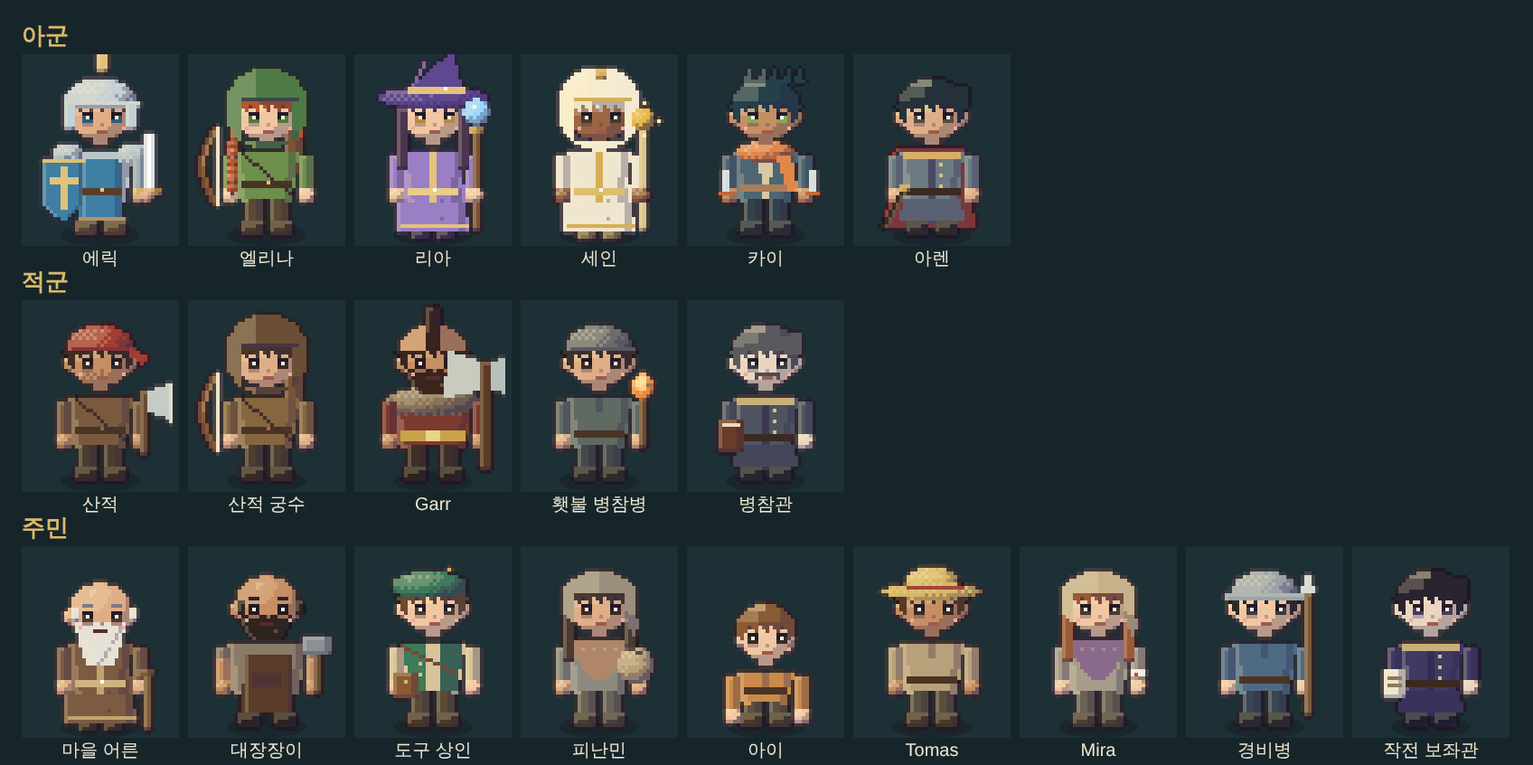
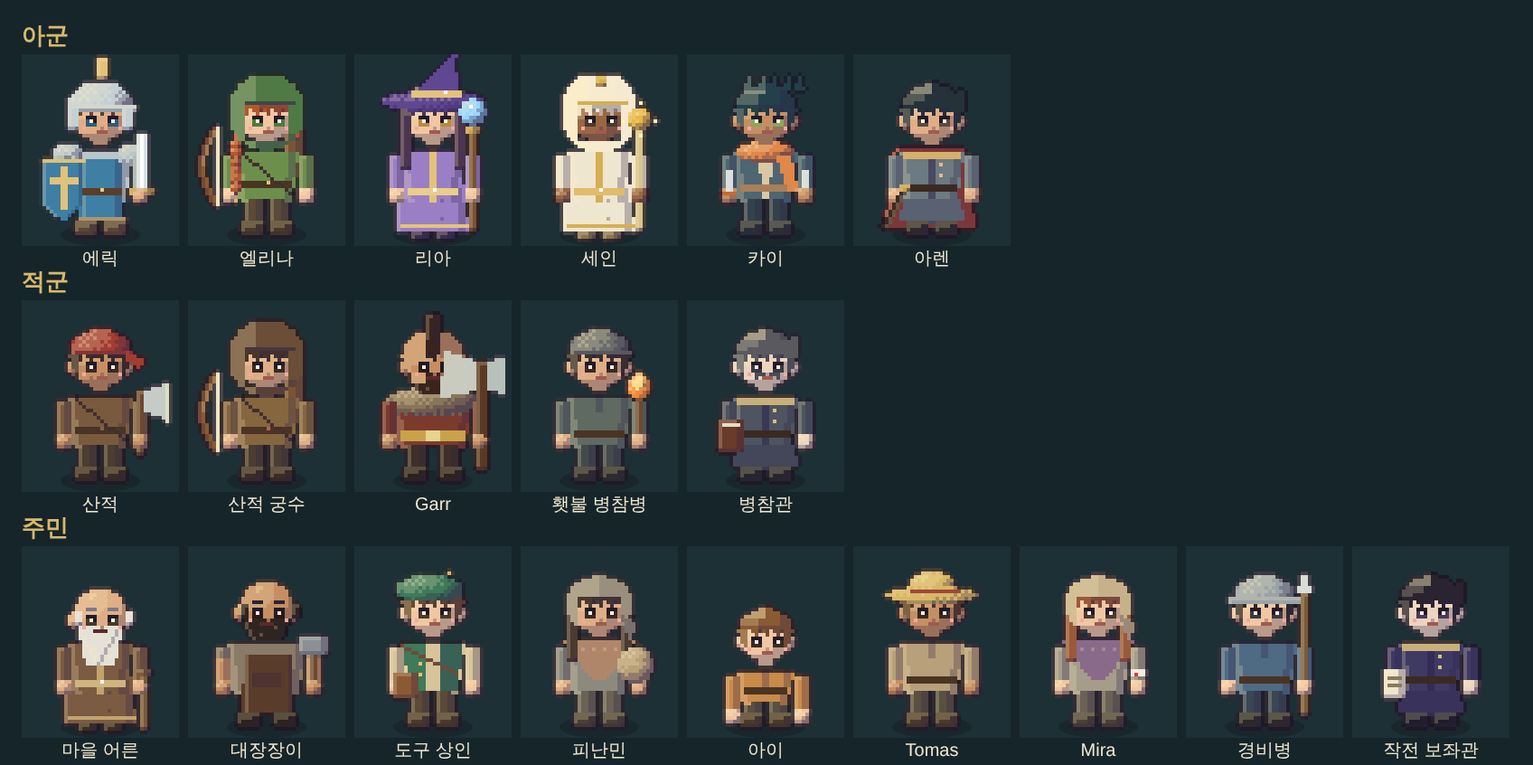
v0.4 B4 sample: smaller heads, four facings and walk cycle
Figures now turn toward their travel direction (front, profile, back,
mirrored profile) with a four-step walk cycle; heads reduced per feedback.
Still a sample only; the shipped build is unchanged.

Claude-Session: https://claude.ai/code/session_01PxKdqHNH8WuM4yqBK5toYD

diff --git a/src/render/hd-art.js b/src/render/hd-art.js
@@ -156,103 +156,176 @@ export const CAST={
  guard:{name:'경비병',skin:'fair',hair:'#2f2a26',style:'short',helm:'kettle',helmColor:'#9aa4a8',body:'tunic',coat:'#4f6b84',trim:'#c9b07a',legs:'#3a4652',boots:'#2c2a26',weapon:'spear',eye:'#3a3a40'},
  aide:{name:'작전 보좌관',skin:'pale',hair:'#2a2430',style:'swept',body:'coat',coat:'#3f3a63',trim:'#c9b07a',legs:'#2a2840',boots:'#1f1d2a',weapon:'papers',eye:'#4a3a5a'}
 };
-export function figureSprite(id,{frame=0}={}){return cached(`fig${id}:${frame}`,()=>drawFigure(CAST[id]||CAST.bandit,frame));}
-function drawFigure(S,frame){
- const p=new Pix(40,52),sk=ramp(SKIN[S.skin]||S.skin),hr=ramp(S.hair),coat=ramp(S.coat),trim=ramp(S.trim),legs=ramp(S.legs),boots=ramp(S.boots),big=S.big?1:0,small=S.small?1:0,lift=frame===1?1:0;
- const top=small?8:0; // children stand shorter
- const cx=20,headY=16+top+(S.stoop?2:0)+lift,bodyTop=26+top+lift,hip=39+(small?3:0);
- // ---- behind the body ----
- if(S.cape){const cr=ramp(S.cape);p.poly([[cx-9,bodyTop],[cx+9,bodyTop],[cx+12,48],[cx-12,48]],cr[1]);for(let y=bodyTop;y<48;y++)p.set(cx-10-(y-bodyTop)/8,y,cr[2]);}
- if(S.back==='quiver'){const q=ramp('#7a5434');p.box(cx+5,bodyTop-7,5,14,q);for(let i=0;i<3;i++){p.set(cx+6+i*1,bodyTop-9,col('#e8e0c8'));p.set(cx+6+i,bodyTop-8,col('#c9443a'));}}
- if(S.weapon==='bow'){const b=ramp('#8a5a32');for(let i=0;i<22;i++){const y=bodyTop-6+i,x=cx-14+Math.round(Math.sin(i/21*Math.PI)*-4);p.set(x,y,b[i<11?3:2]);p.set(x-1,y,b[1]);}p.line(cx-14,bodyTop-6,cx-14,bodyTop+15,col('#efe6c8'));}
- // ---- legs and boots ----
- const legTop=hip-1,legL=cx-6+big*-1,legR=cx+1+big;
- if(['robe'].includes(S.body)){p.poly([[cx-8-big,bodyTop+6],[cx+8+big,bodyTop+6],[cx+10+big,49],[cx-10-big,49]],coat[2]);for(let y=bodyTop+6;y<49;y++){const half=8+big+(y-bodyTop-6)*2/(49-bodyTop-6);p.set(cx-half,y,coat[3]);p.set(cx+half-1,y,coat[1]);p.set(cx+half-2,y,coat[1]);if(y%5===0)p.set(cx+2,y,coat[1]);}p.rect(cx-9-big,47,19+2*big,1,trim[2]);p.box(cx-6,49,5,2,boots);p.box(cx+1,49,5,2,boots);}
- else{p.box(legL,legTop,5,9-lift,legs);p.box(legR,legTop,5,9-lift,legs);p.box(legL-1,47-lift,6,3+lift,boots);p.box(legR,47-lift,6,3+lift,boots);p.rect(legL-1,46-lift,6,1,boots[3]);p.rect(legR,46-lift,6,1,boots[3]);}
- // ---- torso ----
- const tw=8+big*2-small,tTop=bodyTop,tBot=hip+1;
- const shirt=S.body==='plate'?ramp('#b9c6ca'):coat;
- p.poly([[cx-tw-1,tTop+1],[cx+tw+1,tTop+1],[cx+tw-1,tBot],[cx-tw+1,tBot]],shirt[2]);
- for(let y=tTop+1;y<=tBot;y++){const k=(y-tTop)/(tBot-tTop),half=tw+1-k*2;p.set(cx-half,y,shirt[3]);p.set(cx-half+1,y,shirt[3]);p.set(cx+half-1,y,shirt[1]);p.set(cx+half-2,y,shirt[1]);}
- if(S.body==='plate'){const tb=ramp(S.tabard);p.poly([[cx-5,tTop+3],[cx+5,tTop+3],[cx+6,tBot+5],[cx-6,tBot+5]],tb[2]);for(let y=tTop+3;y<tBot+5;y++){p.set(cx-5,y,tb[3]);p.set(cx+4,y,tb[1]);p.set(cx+5,y,tb[1]);}p.rect(cx-6,tBot-3,12,2,ramp('#5a3e2a')[2]);p.set(cx,tBot-3,trim[3]);p.rect(cx-6,tBot+5,13,1,trim[1]);
-  // pauldrons
-  p.ball(cx-tw-1,tTop+2,4,3.5,ramp('#b9c6ca'));p.ball(cx+tw+1,tTop+2,4,3.5,ramp('#b9c6ca'));}
- if(S.body==='leather'){p.rect(cx-tw+1,tTop+9,2*tw-2,2,ramp('#4a3424')[2]);p.set(cx,tTop+9,trim[3]);p.line(cx-tw+1,tTop+1,cx+tw-2,tTop+12,ramp('#4a3424')[1]);}
- if(S.body==='robe'){p.rect(cx-1,tTop+1,2,tBot-tTop,trim[2]);p.rect(cx-tw+1,tBot-3,2*tw-2,2,trim[3]);p.set(cx,tBot-3,col('#ffffff'));}
- if(S.body==='jacket'){p.poly([[cx-2,tTop+1],[cx+2,tTop+1],[cx+1,tBot],[cx-1,tBot]],ramp('#d9c8a4')[2]);p.rect(cx-tw+1,tBot-4,2*tw-2,2,trim[1]);}
- if(S.body==='coat'){p.rect(cx-1,tTop+2,2,tBot-tTop+5,coat[0]);for(let i=0;i<3;i++)p.set(cx+2,tTop+4+i*3,trim[3]);p.rect(cx-tw,tBot-3,2*tw,2,ramp('#3a2a22')[2]);p.poly([[cx-tw,tBot],[cx+tw,tBot],[cx+tw+1,tBot+6],[cx-tw-1,tBot+6]],coat[1]);p.rect(cx-tw,tTop+1,2*tw,2,trim[2]);}
- if(S.body==='fur'){p.ball(cx,tTop+2,tw+3,4,ramp(S.fur));for(let i=0;i<8;i++)p.set(cx-tw+i*2.5,tTop+5,ramp(S.fur)[1]);p.rect(cx-tw+1,tBot-4,2*tw-2,3,trim[2]);p.rect(cx-2,tBot-4,4,3,col('#e8d48a'));}
- if(S.body==='apron'){const ap=ramp(S.apron);p.poly([[cx-6,tTop+4],[cx+6,tTop+4],[cx+7,tBot+6],[cx-7,tBot+6]],ap[2]);for(let y=tTop+4;y<tBot+6;y++){p.set(cx-6,y,ap[3]);p.set(cx+6,y,ap[1]);}p.rect(cx-4,tTop+9,8,4,ap[1]);}
- if(S.body==='vest'){const v=ramp(S.vest);p.poly([[cx-tw,tTop+1],[cx-2,tTop+1],[cx-2,tBot],[cx-tw+1,tBot]],v[2]);p.poly([[cx+2,tTop+1],[cx+tw,tTop+1],[cx+tw-1,tBot],[cx+2,tBot]],v[1]);p.set(cx-4,tTop+6,trim[3]);p.set(cx-4,tTop+9,trim[3]);}
- if(S.body==='shawl'){const sh=ramp(S.shawl);p.poly([[cx-tw-2,tTop],[cx+tw+2,tTop],[cx+2,tTop+11],[cx-2,tTop+11]],sh[2]);for(let x=-tw;x<tw;x+=3)p.set(cx+x,tTop+2,sh[3]);}
- if(S.body==='tunic'){p.rect(cx-tw+1,tBot-4,2*tw-2,2,ramp('#4a3424')[2]);p.rect(cx-1,tTop+1,2,4,coat[1]);}
- if(S.scarf){const sc=ramp(S.scarf);p.ball(cx,tTop+1,tw,3,sc);p.poly([[cx+3,tTop+2],[cx+7,tTop+2],[cx+9,tTop+12],[cx+6,tTop+12]],sc[2]);p.set(cx+8,tTop+11,sc[3]);}
- // ---- arms ----
- const armY=tTop+2,sleeve=S.body==='plate'?ramp('#9fb0b6'):S.body==='apron'||S.body==='vest'?ramp(S.coat):coat;
- const armL=cx-tw-4,armR=cx+tw+1;
- p.box(armL,armY,4,10,sleeve);p.box(armR,armY,4,10,sleeve);
- if(S.body==='apron'){p.box(armL,armY+3,4,7,sk);p.box(armR,armY+3,4,7,sk);}
- p.ball(armL+2,armY+11,2.4,2.2,sk);p.ball(armR+2,armY+11,2.4,2.2,sk);
- if(S.bandage){p.rect(armR,armY+6,4,2,col('#f2ece0'));p.set(armR+1,armY+7,col('#c9443a'));}
- // ---- head (large chibi head, eyes always visible) ----
- const hx=cx,hy=headY,hw=small?7:8.5,eyeTop=hy;
- p.ball(hx-hw+.3,hy+1.5,1.7,2.4,sk);p.ball(hx+hw-.3,hy+1.5,1.7,2.4,sk); // ears
- p.ball(hx,hy,hw,7.8,sk,{flat:.5,bias:.08,clean:true,hi:false});
- p.rect(hx-2,hy+7,4,2,sk[1]); // neck
- const ey=eyeTop,eL=hx-5,eR=hx+3;
- // ---- facial hair under the eyes ----
- if(S.beard==='full'||S.beard==='long'){const br=ramp(S.hair),bot=hy+(S.beard==='long'?15:10);p.poly([[hx-hw+1,hy+3],[hx+hw-1,hy+3],[hx+4,bot],[hx-4,bot]],br[2]);for(let y=hy+4;y<bot;y++){p.set(hx-hw+1+(y-hy-3)*.6,y,br[3]);p.set(hx+hw-2-(y-hy-3)*.6,y,br[1]);}for(let y=hy+5;y<bot-1;y+=2)p.set(hx+((y>>1)%2?2:-2),y,br[3]);p.rect(hx-2,ey+5,4,1,col('#5a2a2a'));}
- if(S.beard==='stubble')for(let y=ey+4;y<hy+8;y++)for(let x=hx-5;x<=hx+5;x++)if((x+y)%2===0&&p.get(x,y))p.set(x,y,sk[1]);
- if(S.beard==='mustache'){p.rect(hx-3,ey+4,7,1,hr[1]);p.set(hx-3,ey+5,hr[1]);p.set(hx+3,ey+5,hr[1]);}
- // eyes: dark lash line, coloured iris, catch-light
- for(const ex of [eL,eR]){p.rect(ex,ey,3,1,col('#231a26'));p.rect(ex,ey+1,3,2,col(S.eye));p.set(ex+(ex===eL?2:0),ey+1,col('#231a26'));p.set(ex+1,ey+1,col('#fbf6ec'));p.rect(ex,ey+3,3,1,sk[1]);}
- p.rect(eL,ey-2,3,1,hr[0]);p.rect(eR,ey-2,3,1,hr[0]);
- p.set(hx,ey+3,sk[1]);if(S.beard!=='full'&&S.beard!=='long')p.rect(hx-1,ey+5,3,1,col('#a05a50'));
- p.set(eL-1,ey+4,col('#f2a9a0'));p.set(eR+3,ey+4,col('#f2a9a0'));
- // ---- hair: cap above the brow, side locks beside the cheeks ----
- const brow=hy-3;
+// facing: down (toward the viewer), up (back view), right (profile), left (mirrored profile).
+// frame: 0 idle, 1–4 walk cycle (contact, pass, contact, pass).
+export function figureSprite(id,{frame=0,facing='down'}={}){return cached(`fig${id}:${frame}:${facing}`,()=>{const S=CAST[id]||CAST.bandit;if(facing==='left'){const r=drawFigure(S,frame,'right'),m=new Pix(r.w,r.h);for(let y=0;y<r.h;y++)for(let x=0;x<r.w;x++)m.d[y*r.w+(r.w-1-x)]=r.d[y*r.w+x];return m;}return drawFigure(S,frame,facing);});}
+const WALK=[[0,0,0,0],[1,-1,1,-1],[0,0,0,0],[-1,1,-1,1],[0,0,0,0]]; // [leftLegLift,rightLegLift,leftArmSwing,rightArmSwing]
+function drawFigure(S,frame,facing){
+ const p=new Pix(40,52),view=facing==='up'?'back':facing==='down'?'front':'side';
+ const sk=ramp(SKIN[S.skin]||S.skin),hr=ramp(S.hair),coat=ramp(S.coat),trim=ramp(S.trim),legs=ramp(S.legs),boots=ramp(S.boots),big=S.big?1:0,small=S.small?1:0;
+ const [lA,lB,aA,aB]=WALK[frame%5]||WALK[0],bob=frame%2===1?1:0;
+ const top=small?8:0,cx=20,headY=17+top+(S.stoop?2:0)+bob,bodyTop=26+top+bob,hip=39+(small?3:0);
+ const tw=(8+big*2-small)-(view==='side'?2:0),tTop=bodyTop,tBot=hip+1;
+ const shirt=S.body==='plate'?ramp('#b9c6ca'):coat,dark=r=>[r[0],r[0],r[1],r[2],r[3]];
+ const sleeve=S.body==='plate'?ramp('#9fb0b6'):S.body==='apron'||S.body==='vest'?ramp(S.coat):coat;
+ const armY=tTop+2,hx=cx+(view==='side'?1:0),hy=headY,hw=small?6.5:7.5,brow=hy-3;
+ const near=view==='side'?[cx+1+aA*2,armY+11]:null; // hand position in profile
+ const handL=view==='side'?near:[cx-tw-2,armY+11+(view==='front'?aA:0)],handR=view==='side'?near:[cx+tw+3,armY+11+(view==='front'?aB:0)];
+ const back=view==='back';
+ // ======= items behind the body =======
+ const behind=[],front=[];
+ if(back){front.push('cape','quiver');behind.push('weapon','offhand');}
+ else if(view==='side'){behind.push('cape','quiver','offweapon');front.push('weapon','offhand');}
+ else{behind.push('cape','quiver','bow');front.push('weapon','offhand');}
+ const items=list=>{for(const k of list){
+  if(k==='cape'&&S.cape){const cr=ramp(S.cape);if(view==='side'){p.poly([[cx-5,bodyTop],[cx+1,bodyTop],[cx-3,48],[cx-11-lA,47]],cr[1]);}else{p.poly([[cx-9,bodyTop],[cx+9,bodyTop],[cx+12,48],[cx-12,48]],back?cr[2]:cr[1]);for(let y=bodyTop;y<48;y++){p.set(cx-10-(y-bodyTop)/8,y,cr[3]);if(back)p.set(cx+10+(y-bodyTop)/8,y,cr[1]);}if(back){p.rect(cx-9,bodyTop,18,2,trim[2]);}}}
+  if(k==='quiver'&&S.back==='quiver'){const q=ramp('#7a5434'),qx=view==='side'?cx-8:back?cx-6:cx+5;p.box(qx,bodyTop-7,5,15,q);for(let i=0;i<3;i++){p.set(qx+1+i,bodyTop-9,col('#e8e0c8'));p.set(qx+1+i,bodyTop-8,col('#c9443a'));}if(back)p.line(cx-6,bodyTop+1,cx+7,bodyTop+11,ramp('#5a3a22')[2]);}
+  if(k==='bow'&&S.weapon==='bow')bowAt(cx-14,bodyTop-6,1);
+ }};
+ const bowAt=(x0,y0,dir)=>{const b=ramp('#8a5a32');for(let i=0;i<22;i++){const y=y0+i,x=x0+Math.round(Math.sin(i/21*Math.PI)*-4*dir);p.set(x,y,b[i<11?3:2]);p.set(x-dir,y,b[1]);}p.line(x0,y0,x0,y0+21,col('#efe6c8'));};
+ items(behind);
+ if(back||view==='front'){} 
+ // weapons behind the body (back view / far hand in profile)
+ if(back)weapon(p,S,[cx-tw-2,armY+11],[cx+tw+3,armY+11],sk,'back',{cx,tw,tTop,hip});
+ if(view==='side'&&S.weapon==='bow')bowAt(cx+10,bodyTop-6,-1);
+ // ======= legs =======
+ if(S.body==='robe'){const half0=8+big-(view==='side'?2:0);p.poly([[cx-half0,bodyTop+6],[cx+half0,bodyTop+6],[cx+half0+2,49],[cx-half0-2,49]],coat[2]);for(let y=bodyTop+6;y<49;y++){const half=half0+(y-bodyTop-6)*2/(49-bodyTop-6);p.set(cx-half,y,back?coat[2]:coat[3]);p.set(cx+half-1,y,coat[1]);p.set(cx+half-2,y,coat[1]);if(y%5===0&&!back)p.set(cx+2,y,coat[1]);}p.rect(cx-half0-1,47,2*half0+3,1,trim[2]);
+  if(view==='side'){p.box(cx-4+lA,49,5,2,boots);p.box(cx+1+lB,49,6,2,boots);}else{p.box(cx-6,49-Math.max(0,lA),5,2,boots);p.box(cx+1,49-Math.max(0,lB),5,2,boots);}}
+ else if(view==='side'){const lt=hip-1;const leg=(x,lift,r,b)=>{p.box(x,lt,5,9-lift,r);p.box(x,47-lift,7,3,b);p.rect(x,46-lift,7,1,b[3]);};leg(cx-3+lA*2,Math.max(0,-lA),dark(legs),dark(boots));leg(cx-1-lA*2,Math.max(0,lA),legs,boots);}
+ else{const legL=cx-6-big,legR=cx+1+big,lt=hip-1,a=Math.max(0,lA),b=Math.max(0,lB);p.box(legL,lt,5,9-a,legs);p.box(legR,lt,5,9-b,legs);p.box(legL-1,47-a,6,3,boots);p.box(legR,47-b,6,3,boots);p.rect(legL-1,46-a,6,1,boots[3]);p.rect(legR,46-b,6,1,boots[3]);}
+ // far arm in profile (behind torso)
+ if(view==='side'){const fx=cx-1-aA*2;p.box(fx,armY,4,10,dark(sleeve));p.ball(fx+2,armY+11,2.2,2,dark(sk));if(S.off==='shield'&&false){}}
+ if(view==='side')weapon(p,S,null,null,sk,'far',{cx,tw,tTop,hip,hand:[cx-1-aA*2+2,armY+11]});
+ // ======= torso =======
+ const tc=view==='side'?cx+1:cx;
+ p.poly([[tc-tw-1,tTop+1],[tc+tw+1,tTop+1],[tc+tw-1,tBot],[tc-tw+1,tBot]],shirt[2]);
+ for(let y=tTop+1;y<=tBot;y++){const k=(y-tTop)/(tBot-tTop),half=tw+1-k*2;p.set(tc-half,y,shirt[3]);p.set(tc-half+1,y,shirt[3]);p.set(tc+half-1,y,shirt[1]);p.set(tc+half-2,y,shirt[1]);}
+ const belt=(c=ramp('#4a3424')[2])=>p.rect(tc-tw+1,tBot-4,2*tw-2,2,c);
+ if(view==='front'){
+  if(S.body==='plate'){const tb=ramp(S.tabard);p.poly([[cx-5,tTop+3],[cx+5,tTop+3],[cx+6,tBot+5],[cx-6,tBot+5]],tb[2]);for(let y=tTop+3;y<tBot+5;y++){p.set(cx-5,y,tb[3]);p.set(cx+4,y,tb[1]);p.set(cx+5,y,tb[1]);}p.rect(cx-6,tBot-3,12,2,ramp('#5a3e2a')[2]);p.set(cx,tBot-3,trim[3]);p.rect(cx-6,tBot+5,13,1,trim[1]);}
+  if(S.body==='leather'){p.rect(cx-tw+1,tTop+9,2*tw-2,2,ramp('#4a3424')[2]);p.set(cx,tTop+9,trim[3]);p.line(cx-tw+1,tTop+1,cx+tw-2,tTop+12,ramp('#4a3424')[1]);}
+  if(S.body==='robe'){p.rect(cx-1,tTop+1,2,tBot-tTop,trim[2]);p.rect(cx-tw+1,tBot-3,2*tw-2,2,trim[3]);p.set(cx,tBot-3,col('#ffffff'));}
+  if(S.body==='jacket'){p.poly([[cx-2,tTop+1],[cx+2,tTop+1],[cx+1,tBot],[cx-1,tBot]],ramp('#d9c8a4')[2]);p.rect(cx-tw+1,tBot-4,2*tw-2,2,trim[1]);}
+  if(S.body==='coat'){p.rect(cx-1,tTop+2,2,tBot-tTop+5,coat[0]);for(let i=0;i<3;i++)p.set(cx+2,tTop+4+i*3,trim[3]);belt(ramp('#3a2a22')[2]);p.poly([[cx-tw,tBot],[cx+tw,tBot],[cx+tw+1,tBot+6],[cx-tw-1,tBot+6]],coat[1]);p.rect(cx-tw,tTop+1,2*tw,2,trim[2]);}
+  if(S.body==='fur'){p.ball(cx,tTop+2,tw+3,4,ramp(S.fur));for(let i=0;i<8;i++)p.set(cx-tw+i*2.5,tTop+5,ramp(S.fur)[1]);p.rect(cx-tw+1,tBot-4,2*tw-2,3,trim[2]);p.rect(cx-2,tBot-4,4,3,col('#e8d48a'));}
+  if(S.body==='apron'){const ap=ramp(S.apron);p.poly([[cx-6,tTop+4],[cx+6,tTop+4],[cx+7,tBot+6],[cx-7,tBot+6]],ap[2]);for(let y=tTop+4;y<tBot+6;y++){p.set(cx-6,y,ap[3]);p.set(cx+6,y,ap[1]);}p.rect(cx-4,tTop+9,8,4,ap[1]);}
+  if(S.body==='vest'){const v=ramp(S.vest);p.poly([[cx-tw,tTop+1],[cx-2,tTop+1],[cx-2,tBot],[cx-tw+1,tBot]],v[2]);p.poly([[cx+2,tTop+1],[cx+tw,tTop+1],[cx+tw-1,tBot],[cx+2,tBot]],v[1]);p.set(cx-4,tTop+6,trim[3]);p.set(cx-4,tTop+9,trim[3]);}
+  if(S.body==='shawl'){const sh=ramp(S.shawl);p.poly([[cx-tw-2,tTop],[cx+tw+2,tTop],[cx+2,tTop+11],[cx-2,tTop+11]],sh[2]);for(let x=-tw;x<tw;x+=3)p.set(cx+x,tTop+2,sh[3]);}
+  if(S.body==='tunic'){belt();p.rect(cx-1,tTop+1,2,4,coat[1]);}
+ } else {
+  // back / profile: silhouette-level details only (belt, hem, panels)
+  if(S.body==='plate'){const tb=ramp(S.tabard);if(back){p.poly([[cx-6,tTop+3],[cx+6,tTop+3],[cx+7,tBot+5],[cx-7,tBot+5]],tb[2]);for(let y=tTop+3;y<tBot+5;y++)p.set(cx+5,y,tb[1]);}else{p.poly([[tc+1,tTop+3],[tc+tw,tTop+3],[tc+tw+1,tBot+5],[tc+1,tBot+5]],tb[2]);}p.rect(tc-tw+1,tBot-3,2*tw-2,2,ramp('#5a3e2a')[2]);}
+  else if(S.body==='fur'){p.ball(cx,tTop+2,tw+3,4,ramp(S.fur));p.rect(tc-tw+1,tBot-4,2*tw-2,3,trim[2]);}
+  else if(S.body==='apron'){if(view==='side')p.poly([[tc+2,tTop+4],[tc+tw+1,tTop+4],[tc+tw+2,tBot+6],[tc+2,tBot+6]],ramp(S.apron)[2]);else{p.line(cx-6,tTop+3,cx+6,tBot-4,ramp(S.apron)[1]);p.line(cx+6,tTop+3,cx-6,tBot-4,ramp(S.apron)[1]);}belt(ramp(S.apron)[1]);}
+  else if(S.body==='vest'){const v=ramp(S.vest);p.poly([[tc-tw,tTop+1],[tc+tw,tTop+1],[tc+tw-1,tBot],[tc-tw+1,tBot]],v[back?2:1]);}
+  else if(S.body==='shawl'){const sh=ramp(S.shawl);p.poly([[tc-tw-2,tTop],[tc+tw+2,tTop],[tc+tw,tTop+12],[tc-tw,tTop+12]],sh[2]);}
+  else if(S.body==='robe'){p.rect(tc-tw+1,tBot-3,2*tw-2,2,trim[3]);if(view==='side')p.rect(tc+tw-2,tTop+1,2,tBot-tTop,trim[2]);}
+  else if(S.body==='coat'){belt(ramp('#3a2a22')[2]);p.poly([[tc-tw,tBot],[tc+tw,tBot],[tc+tw+1,tBot+6],[tc-tw-1,tBot+6]],coat[1]);if(back)p.rect(cx,tBot,1,6,coat[0]);p.rect(tc-tw,tTop+1,2*tw,2,trim[2]);}
+  else belt();
+ }
+ if(S.scarf){const sc=ramp(S.scarf);p.ball(tc,tTop+1,tw,3,sc);if(back)p.poly([[cx-2,tTop+2],[cx+2,tTop+2],[cx+3,tTop+12],[cx-1,tTop+12]],sc[2]);else if(view==='side')p.poly([[tc-tw,tTop+1],[tc-tw+3,tTop+1],[tc-tw-3,tTop+10],[tc-tw-5,tTop+8]],sc[2]);else{p.poly([[cx+3,tTop+2],[cx+7,tTop+2],[cx+9,tTop+12],[cx+6,tTop+12]],sc[2]);p.set(cx+8,tTop+11,sc[3]);}}
+ if(S.body==='plate'&&view!=='side'){p.ball(cx-tw-1,tTop+2,4,3.5,ramp('#b9c6ca'));p.ball(cx+tw+1,tTop+2,4,3.5,ramp('#b9c6ca'));}
+ if(S.body==='plate'&&view==='side')p.ball(tc,tTop+2,4,3.5,ramp('#b9c6ca'));
+ // ======= arms =======
+ if(view==='side'){const nx=cx+aA*2;p.box(nx,armY,4,10,sleeve);if(S.body==='apron')p.box(nx,armY+3,4,7,sk);p.ball(nx+2,armY+11,2.4,2.2,sk);if(S.bandage){p.rect(nx,armY+6,4,2,col('#f2ece0'));p.set(nx+1,armY+7,col('#c9443a'));}}
+ else{const aL=cx-tw-4,aR=cx+tw+1,sa=view==='front'?aA:0,sb=view==='front'?aB:0;p.box(aL,armY+Math.min(0,sa),4,10,sleeve);p.box(aR,armY+Math.min(0,sb),4,10,sleeve);if(S.body==='apron'){p.box(aL,armY+3,4,7,sk);p.box(aR,armY+3,4,7,sk);}p.ball(aL+2,armY+11+sa,2.4,2.2,sk);p.ball(aR+2,armY+11+sb,2.4,2.2,sk);if(S.bandage&&!back){p.rect(aR,armY+6,4,2,col('#f2ece0'));p.set(aR+1,armY+7,col('#c9443a'));}}
+ // ======= head =======
+ if(view==='front'){p.ball(hx-hw+.3,hy+1.5,1.6,2.2,sk);p.ball(hx+hw-.3,hy+1.5,1.6,2.2,sk);}
+ if(view==='side')p.ball(hx-1,hy+1.5,1.6,2.2,sk);
+ p.ball(hx,hy,hw,7,sk,{flat:.5,bias:.08,clean:true,hi:false});
+ p.rect(hx-2,hy+6,4,2,sk[1]);
+ if(view==='side'){p.set(hx+hw,hy+2,sk[2]);p.set(hx+hw,hy+3,sk[1]);} // nose
+ const ey=hy;
+ if(view==='front'){
+  const eL=hx-4,eR=hx+2;
+  if(S.beard==='full'||S.beard==='long'){const br=ramp(S.hair),bot=hy+(S.beard==='long'?14:9);p.poly([[hx-hw+1,hy+3],[hx+hw-1,hy+3],[hx+4,bot],[hx-4,bot]],br[2]);for(let y=hy+4;y<bot;y++){p.set(hx-hw+1+(y-hy-3)*.6,y,br[3]);p.set(hx+hw-2-(y-hy-3)*.6,y,br[1]);}for(let y=hy+5;y<bot-1;y+=2)p.set(hx+((y>>1)%2?2:-2),y,br[3]);p.rect(hx-2,ey+4,4,1,col('#5a2a2a'));}
+  if(S.beard==='stubble')for(let y=ey+4;y<hy+7;y++)for(let x=hx-4;x<=hx+4;x++)if((x+y)%2===0&&p.get(x,y))p.set(x,y,sk[1]);
+  if(S.beard==='mustache'){p.rect(hx-3,ey+3,7,1,hr[1]);p.set(hx-3,ey+4,hr[1]);p.set(hx+3,ey+4,hr[1]);}
+  for(const ex of [eL,eR]){p.rect(ex,ey,3,1,col('#231a26'));p.rect(ex,ey+1,3,2,col(S.eye));p.set(ex+(ex===eL?2:0),ey+1,col('#231a26'));p.set(ex+1,ey+1,col('#fbf6ec'));}
+  p.rect(eL,ey-2,3,1,hr[0]);p.rect(eR,ey-2,3,1,hr[0]);
+  p.set(hx,ey+3,sk[1]);if(S.beard!=='full'&&S.beard!=='long')p.rect(hx-1,ey+4,3,1,col('#a05a50'));
+  p.set(eL-1,ey+3,col('#f2a9a0'));p.set(eR+3,ey+3,col('#f2a9a0'));
+ }
+ if(view==='side'){
+  const ex=hx+3;
+  if(S.beard==='full'||S.beard==='long'){const br=ramp(S.hair),bot=hy+(S.beard==='long'?14:9);p.poly([[hx,hy+3],[hx+hw,hy+3],[hx+hw-1,bot],[hx+1,bot-2]],br[2]);}
+  if(S.beard==='stubble')for(let y=ey+4;y<hy+7;y++)for(let x=hx+1;x<=hx+hw;x++)if((x+y)%2===0&&p.get(x,y))p.set(x,y,sk[1]);
+  if(S.beard==='mustache')p.rect(hx+4,ey+3,4,1,hr[1]);
+  p.rect(ex,ey,2,1,col('#231a26'));p.rect(ex,ey+1,2,2,col(S.eye));p.set(ex,ey+1,col('#fbf6ec'));p.rect(ex,ey-2,3,1,hr[0]);
+  if(S.beard!=='full'&&S.beard!=='long')p.rect(hx+5,ey+4,2,1,col('#a05a50'));p.set(ex-1,ey+3,col('#f2a9a0'));
+ }
+ // ======= hair =======
  if(S.style!=='bald'){
-  for(let y=Math.floor(hy-hw-2);y<=hy+3;y++)for(let x=Math.floor(hx-hw-1);x<=Math.ceil(hx+hw+1);x++){const dx=(x+.5-hx)/(hw+1),dy=(y+.5-(hy-1.5))/(hw*.92);if(dx*dx+dy*dy>1)continue;const side=Math.abs(x+.5-hx)>hw-1.5;if(y>brow&&!side)continue;let t=x<hx-2?3:x>hx+3?1:2;if(y<hy-hw+1&&x<hx)t=4;if(y===brow||(side&&y>brow))t=Math.max(1,t-1);p.set(x,y,hr[t]);}
-  for(let x=Math.round(hx-hw+1);x<=Math.round(hx+hw-1);x++){const len=((x*7+3)%3);for(let y=brow+1;y<=brow+len;y++)p.set(x,y,hr[x<hx?2:1]);}
-  if(S.style==='long'||S.style==='braid'){p.box(Math.round(hx-hw-1.5),hy-1,3,S.style==='long'?17:9,hr);p.box(Math.round(hx+hw-1.5),hy-1,3,S.style==='long'?17:9,hr);}
-  if(S.style==='braid'){for(let i=0;i<6;i++)p.ball(hx-hw-1,hy+9+i*2.4,1.9,1.5,hr);p.set(hx-hw-1,hy+24,col('#d8b46a'));}
-  if(S.style==='spiky')for(let i=0;i<5;i++){const x=hx-7+i*3.5;p.poly([[x,hy-hw+1],[x+4,hy-hw+1],[x+2.5+(i%2),hy-hw-4]],hr[i<2?3:2]);}
-  if(S.style==='mohawk'){for(let y=Math.floor(hy-hw);y<=brow;y++)for(let x=Math.floor(hx-hw);x<=hx+hw;x++)if(Math.abs(x+.5-hx)>2&&p.get(x,y)===hr[3]||Math.abs(x+.5-hx)>2&&p.get(x,y)===hr[2]||Math.abs(x+.5-hx)>2&&p.get(x,y)===hr[1]||Math.abs(x+.5-hx)>2&&p.get(x,y)===hr[4])p.set(x,y,sk[x<hx?3:1]);p.box(hx-2,hy-hw-5,4,8,hr);}
-  if(S.style==='swept')p.poly([[hx-hw,brow],[hx+hw+1,brow-4],[hx+hw+1,brow+2]],hr[2]);
- } else {p.set(hx-3,hy-6,sk[4]);p.set(hx-2,hy-6,sk[4]);p.set(hx-3,hy-5,sk[4]);if(S.hair){p.box(Math.round(hx-hw),hy-1,2,4,hr);p.box(Math.round(hx+hw-1),hy-1,2,4,hr);}}
- // ---- headgear ----
- const capY=brow;
- if(S.helm==='knight'){const m=ramp('#c4d0d4');p.ball(hx,hy-3,hw+1.4,6.4,m,{maxY:capY});p.rect(Math.round(hx-hw-1),capY,Math.round(2*hw+3),2,m[1]);p.rect(Math.round(hx-hw-1),capY,Math.round(2*hw+3),1,m[3]);p.box(hx-1,hy-hw-8,3,6,ramp(S.trim));p.box(Math.round(hx-hw-1.5),capY,3,8,m);p.box(Math.round(hx+hw-1.5),capY,3,8,m);}
- if(S.helm==='kettle'){const m=ramp(S.helmColor);p.ball(hx,hy-3,hw+.8,6,m,{maxY:capY});p.box(Math.round(hx-hw-3),capY,Math.round(2*hw+7),2,m);}
- if(S.helm==='cap'){const m=ramp(S.helmColor);p.ball(hx,hy-3,hw+.8,6,m,{maxY:capY});p.rect(Math.round(hx-hw),capY,Math.round(2*hw+1),1,m[1]);}
+  for(let y=Math.floor(hy-hw-2);y<=hy+6;y++)for(let x=Math.floor(hx-hw-1);x<=Math.ceil(hx+hw+1);x++){const dx=(x+.5-hx)/(hw+1),dy=(y+.5-(hy-1.5))/(hw*.95);if(dx*dx+dy*dy>1)continue;
+   let cover;if(back)cover=y<=hy+4;else if(view==='side')cover=y<=brow||(x<hx-1&&y<=hy+4)||(x<hx+1&&y<=hy-1);else cover=y<=brow||(Math.abs(x+.5-hx)>hw-1.5&&y<=hy+3);
+   if(!cover)continue;let t=x<hx-2?3:x>hx+3?1:2;if(y<hy-hw+1&&x<hx)t=4;if(y===brow&&!back)t=Math.max(1,t-1);if(back&&y>hy+2)t=Math.max(1,t-1);p.set(x,y,hr[t]);}
+  if(view==='front')for(let x=Math.round(hx-hw+1);x<=Math.round(hx+hw-1);x++){const len=((x*7+3)%3);for(let y=brow+1;y<=brow+len;y++)p.set(x,y,hr[x<hx?2:1]);}
+  if(view==='side')for(let x=hx;x<=hx+hw-1;x++){const len=((x*7+3)%3);for(let y=brow+1;y<=brow+len;y++)p.set(x,y,hr[2]);}
+  const locks=S.style==='long'?16:S.style==='braid'?8:0;
+  if(locks){if(view==='side')p.box(Math.round(hx-hw),hy-1,5,locks,hr);else if(back)p.box(Math.round(hx-hw+1),hy+2,Math.round(2*hw-1),locks-2,hr);else{p.box(Math.round(hx-hw-1.5),hy-1,3,locks,hr);p.box(Math.round(hx+hw-1.5),hy-1,3,locks,hr);}}
+  if(S.style==='braid'){const bx=view==='side'?hx-hw+1:back?hx:hx-hw-1;for(let i=0;i<6;i++)p.ball(bx,hy+8+i*2.4,1.9,1.5,hr);p.set(bx,hy+23,col('#d8b46a'));}
+  if(S.style==='spiky')for(let i=0;i<5;i++){const x=hx-7+i*3.5-(view==='side'?2:0);p.poly([[x,hy-hw+1],[x+4,hy-hw+1],[x+2.5+(i%2)-(view==='side'?2:0),hy-hw-4]],hr[i<2?3:2]);}
+  if(S.style==='mohawk'){for(let y=Math.floor(hy-hw-2);y<=hy+5;y++)for(let x=Math.floor(hx-hw-1);x<=hx+hw+1;x++){const v=p.get(x,y);if(Math.abs(x+.5-hx)>2&&hr.includes(v))p.set(x,y,sk[x<hx?3:1]);}p.box(hx-2,hy-hw-5,4,view==='front'?8:back?14:8,hr);}
+  if(S.style==='swept'&&!back)p.poly(view==='side'?[[hx-hw,brow],[hx+hw,brow-3],[hx+hw-1,brow+1]]:[[hx-hw,brow],[hx+hw+1,brow-4],[hx+hw+1,brow+2]],hr[2]);
+ } else {p.set(hx-3,hy-6,sk[4]);p.set(hx-2,hy-6,sk[4]);p.set(hx-3,hy-5,sk[4]);if(S.hair){if(back){for(let x=Math.round(hx-hw+1);x<Math.round(hx+hw);x++){const d=Math.abs(x+.5-hx)/hw,y0=Math.round(hy+1+d*-3);for(let y=y0;y<hy+5;y++)if(p.get(x,y))p.set(x,y,hr[x<hx?3:2]);}}else if(view==='side')p.box(Math.round(hx-hw),hy-1,4,5,hr);else{p.box(Math.round(hx-hw),hy-1,2,4,hr);p.box(Math.round(hx+hw-1),hy-1,2,4,hr);}}}
+ // ======= headgear =======
+ const capY=brow,W2=Math.round(2*hw);
+ if(S.helm==='knight'){const m=ramp('#c4d0d4');p.ball(hx,hy-3,hw+1.4,6.4,m,{maxY:back?hy+3:capY});if(!back){p.rect(Math.round(hx-hw-1),capY,W2+3,2,m[1]);p.rect(Math.round(hx-hw-1),capY,W2+3,1,m[3]);}p.box(hx-1,hy-hw-8,3,6,ramp(S.trim));if(view==='front'){p.box(Math.round(hx-hw-1.5),capY,3,7,m);p.box(Math.round(hx+hw-1.5),capY,3,7,m);}if(view==='side')p.box(Math.round(hx-hw-1),capY,6,7,m);}
+ if(S.helm==='kettle'){const m=ramp(S.helmColor);p.ball(hx,hy-3,hw+.8,6,m,{maxY:capY});p.box(Math.round(hx-hw-3),capY,W2+7,2,m);}
+ if(S.helm==='cap'){const m=ramp(S.helmColor);p.ball(hx,hy-3,hw+.8,6,m,{maxY:back?hy+1:capY});p.rect(Math.round(hx-hw),capY,W2+1,1,m[1]);}
  if(S.helm==='beret'){const m=ramp(S.helmColor);p.ball(hx-1,hy-5,hw+2,4,m,{maxY:capY});p.set(hx+4,hy-10,col('#d8b46a'));}
- if(S.helm==='straw'){const m=ramp(S.helmColor);p.ball(hx,hy-6,hw-1,4,m);p.ball(hx,capY-.5,hw+5,2.4,m,{flat:.5});p.rect(Math.round(hx-hw+1),capY-2,Math.round(2*hw-1),1,col('#a2463a'));}
- if(S.bandana){const b=ramp(S.bandana);p.ball(hx,hy-3,hw+.8,6,b,{maxY:capY});p.rect(Math.round(hx-hw),capY,Math.round(2*hw+1),1,b[1]);p.poly([[hx+hw-1,capY],[hx+hw+5,capY+3],[hx+hw+3,capY+5],[hx+hw-1,capY+2]],b[2]);}
- const wrap=(r,top,bottom,widen,tones)=>{for(let y=Math.floor(hy-top);y<=hy+bottom;y++)for(let x=Math.floor(hx-hw-widen);x<=Math.ceil(hx+hw+widen);x++){const dx=(x+.5-hx)/(hw+widen),dy=(y+.5-(hy-1))/((top+bottom)/2+1);const face=Math.abs(x+.5-hx)<hw-1.2&&y>brow-1&&y<hy+8;if(dx*dx+dy*dy<=1&&!face)p.set(x,y,r[tones(x,y)]);}};
- if(S.hood){const hd=ramp(S.hood);wrap(hd,hw+3,9,3,(x,y)=>x<hx-3?3:y>hy+4?1:2);p.rect(Math.round(hx-hw+1),brow-1,Math.round(2*hw-1),1,hd[0]);}
- if(S.veil){const v=ramp(S.veil);wrap(v,hw+3,10,3,(x)=>x<hx-3?4:x>hx+4?2:3);p.rect(Math.round(hx-hw+1),brow-1,Math.round(2*hw-1),1,ramp(S.trim)[2]);p.box(hx-1,hy-hw-3,3,3,ramp(S.trim));}
- if(S.scarfHead){const v=ramp(S.scarfHead);wrap(v,hw+2,4,2,(x)=>x<hx?3:2);p.poly([[hx+hw-2,hy+2],[hx+hw+3,hy+4],[hx+hw+1,hy+9]],v[1]);}
- if(S.hat==='witch'){const h=ramp(S.hatColor);p.ball(hx,capY-1,hw+7,2.8,h,{flat:.5});p.poly([[hx-hw+1,capY-2],[hx+hw,capY-2],[hx+6,capY-12],[hx+11,capY-18],[hx+2,capY-11]],h[2]);for(let y=capY-11;y<capY-2;y++)p.set(hx-hw+2+(capY-2-y)*.45,y,h[3]);p.rect(Math.round(hx-hw+1),capY-4,Math.round(2*hw-1),2,ramp(S.trim)[2]);p.set(hx+3,capY-4,col('#ffffff'));p.set(hx+11,capY-18,h[3]);}
- // ---- weapons in front ----
- const handL=[armL+2,armY+11],handR=[armR+2,armY+11];
- if(S.weapon==='sword'){const bl=ramp('#d9e2e6');p.box(handR[0]+1,handR[1]-17,3,16,bl);p.rect(handR[0]+2,handR[1]-17,1,15,col('#ffffff'));p.box(handR[0]-1,handR[1]-2,7,2,ramp('#c9a24a'));p.ball(handR[0]+2,handR[1],2,2,sk);}
- if(S.off==='shield'){const sh=ramp(S.shield);p.poly([[handL[0]-6,handL[1]-10],[handL[0]+5,handL[1]-10],[handL[0]+5,handL[1]+2],[handL[0],handL[1]+8],[handL[0]-6,handL[1]+2]],sh[2]);for(let y=handL[1]-10;y<handL[1]+6;y++){p.set(handL[0]-6+(y>handL[1]+2?(y-handL[1]-2):0),y,sh[3]);p.set(handL[0]+4-(y>handL[1]+2?(y-handL[1]-2):0),y,sh[1]);}p.rect(handL[0]-6,handL[1]-10,12,1,ramp('#d6b25e')[3]);p.rect(handL[0]-1,handL[1]-8,2,12,ramp('#e1c27a')[2]);p.rect(handL[0]-4,handL[1]-5,8,2,ramp('#e1c27a')[2]);}
- if(S.weapon==='bow'&&!S.back){} // archer bow already drawn
- if(S.weapon==='staff'){const w=ramp('#7a5232');p.box(handR[0],handR[1]-20,2,30,w);const o=ramp(S.orb);p.ball(handR[0]+1,handR[1]-23,3.6,3.6,o);p.set(handR[0],handR[1]-25,col('#ffffff'));p.box(handR[0]-1,handR[1]-19,4,2,ramp('#c9a24a'));p.ball(handR[0]+1,handR[1],2.2,2,sk);}
- if(S.weapon==='holy'){const w=ramp('#d8c48c');p.box(handR[0],handR[1]-18,2,28,w);const g=ramp('#e8b84a');p.ball(handR[0]+1,handR[1]-21,3.2,3.2,g);for(const [a,b]of[[0,-5],[0,4],[-5,0],[4,0]])p.set(handR[0]+1+a,handR[1]-21+b,col('#fff3b0'));p.ball(handR[0]+1,handR[1],2.2,2,sk);}
- if(S.weapon==='daggers'){const bl=ramp('#d5dde0');for(const [x,y,d]of[[handR[0]+1,handR[1]-7,1],[handL[0]-2,handL[1]-7,-1]]){p.box(x,y,2,7,bl);p.rect(x-1,y+6,4,1,ramp('#c26a36')[2]);}}
- if(S.weapon==='axe'){const w=ramp('#6a4a30');p.box(handR[0],handR[1]-14,2,18,w);const bl=ramp('#c5ccc8');p.poly([[handR[0]+2,handR[1]-14],[handR[0]+8,handR[1]-16],[handR[0]+8,handR[1]-6],[handR[0]+2,handR[1]-8]],bl[2]);p.line(handR[0]+8,handR[1]-16,handR[0]+8,handR[1]-6,bl[4]);}
- if(S.weapon==='greataxe'){const w=ramp('#5a3a24');p.box(handR[0],handR[1]-22,3,30,w);const bl=ramp('#b8c0bc');for(const d of[1,-1]){const bx=handR[0]+(d>0?3:0);p.poly([[bx,handR[1]-22],[bx+d*9,handR[1]-25],[bx+d*10,handR[1]-12],[bx,handR[1]-14]],bl[d>0?2:3]);}}
- if(S.weapon==='torch'){const w=ramp('#6a4a30');p.box(handR[0],handR[1]-12,2,14,w);p.ball(handR[0]+1,handR[1]-15,3,4,ramp('#f08a3a'),{bias:.3});p.ball(handR[0]+1,handR[1]-16,1.6,2.4,ramp('#ffd27a'),{bias:.4});}
- if(S.weapon==='ledger'){p.box(handL[0]-3,handL[1]-6,7,9,ramp('#6a3a2a'));p.rect(handL[0]-2,handL[1]-5,5,1,col('#e8dcc0'));}
- if(S.weapon==='cane'){p.box(handR[0]+1,handR[1]-4,2,16,ramp('#7a5a3a'));p.box(handR[0]-1,handR[1]-5,5,2,ramp('#7a5a3a'));}
- if(S.weapon==='hammer'){p.box(handR[0],handR[1]-10,2,12,ramp('#6a4a30'));p.box(handR[0]-3,handR[1]-14,8,5,ramp('#8a9094'));}
- if(S.weapon==='satchel'){const b=ramp('#8a5a34');p.box(cx-tw-3,hip-4,7,7,b);p.line(cx-tw-1,tTop+1,cx+tw-2,hip-4,b[1]);p.set(cx-tw,hip-2,col('#d8b46a'));}
- if(S.weapon==='bundle'){p.ball(cx+tw+2,hip-6,5,5,ramp('#b8a07a'));p.line(cx+tw-1,tTop+1,cx+tw+3,hip-10,ramp('#6a5a44')[1]);}
- if(S.weapon==='spear'){p.box(handR[0],handR[1]-26,2,34,ramp('#7a5a3a'));p.poly([[handR[0]-1,handR[1]-26],[handR[0]+3,handR[1]-26],[handR[0]+1,handR[1]-33]],ramp('#d0d8dc')[3]);}
- if(S.weapon==='papers'){p.box(handL[0]-3,handL[1]-5,6,8,ramp('#efe6cf'));p.rect(handL[0]-2,handL[1]-3,4,1,col('#8a7a5a'));p.rect(handL[0]-2,handL[1]-1,4,1,col('#8a7a5a'));}
- if(S.weapon==='sheathed'){p.line(cx-tw-1,hip-1,cx-tw-6,hip+8,ramp('#3a2a22')[2]);p.line(cx-tw,hip-1,cx-tw-5,hip+8,ramp('#3a2a22')[3]);p.box(cx-tw-1,hip-3,3,2,ramp('#c9a24a'));}
+ if(S.helm==='straw'){const m=ramp(S.helmColor);p.ball(hx,hy-6,hw-1,4,m);p.ball(hx,capY-.5,hw+5,2.4,m,{flat:.5});p.rect(Math.round(hx-hw+1),capY-2,W2-1,1,col('#a2463a'));}
+ if(S.bandana){const b=ramp(S.bandana);p.ball(hx,hy-3,hw+.8,6,b,{maxY:back?hy+1:capY});p.rect(Math.round(hx-hw),capY,W2+1,1,b[1]);const kx=view==='side'?hx-hw:back?hx-1:hx+hw-1,kd=view==='side'?-1:1;p.poly([[kx,capY],[kx+kd*6,capY+3],[kx+kd*4,capY+5],[kx,capY+2]],b[2]);}
+ const wrap=(r,topR,bottom,widen,tones)=>{for(let y=Math.floor(hy-topR);y<=hy+bottom;y++)for(let x=Math.floor(hx-hw-widen);x<=Math.ceil(hx+hw+widen);x++){const dx=(x+.5-hx)/(hw+widen),dy=(y+.5-(hy-1))/((topR+bottom)/2+1);const face=back?false:view==='side'?(x+.5>hx&&y>brow-1&&y<hy+7):(Math.abs(x+.5-hx)<hw-1.2&&y>brow-1&&y<hy+7);if(dx*dx+dy*dy<=1&&!face)p.set(x,y,r[tones(x,y)]);}};
+ if(S.hood){const hd=ramp(S.hood);wrap(hd,hw+3,9,3,(x,y)=>x<hx-3?3:y>hy+4?1:2);if(!back)p.rect(view==='side'?hx:Math.round(hx-hw+1),brow-1,view==='side'?Math.round(hw):W2-1,1,hd[0]);}
+ if(S.veil){const v=ramp(S.veil);wrap(v,hw+3,10,3,(x)=>x<hx-3?4:x>hx+4?2:3);if(!back)p.rect(view==='side'?hx:Math.round(hx-hw+1),brow-1,view==='side'?Math.round(hw):W2-1,1,ramp(S.trim)[2]);p.box(hx-1,hy-hw-3,3,3,ramp(S.trim));}
+ if(S.scarfHead){const v=ramp(S.scarfHead);wrap(v,hw+2,back?6:4,2,(x)=>x<hx?3:2);if(view==='front')p.poly([[hx+hw-2,hy+2],[hx+hw+3,hy+4],[hx+hw+1,hy+9]],v[1]);}
+ if(S.hat==='witch'){const h=ramp(S.hatColor),tip=view==='side'?-1:1;p.ball(hx,capY-1,hw+7,2.8,h,{flat:.5});p.poly([[hx-hw+1,capY-2],[hx+hw,capY-2],[hx+6*tip,capY-12],[hx+11*tip,capY-18],[hx+2*tip,capY-11]],h[2]);if(!back)p.rect(Math.round(hx-hw+1),capY-4,W2-1,2,ramp(S.trim)[2]);if(view==='front')p.set(hx+3,capY-4,col('#ffffff'));}
+ // ======= items in front =======
+ items(front);
+ if(!back)weapon(p,S,handL,handR,sk,view,{cx,tw,tTop,hip});
  return p.outline();
+}
+// hand-held items; view 'front' uses both hands, 'side' the near hand (shield on the near arm),
+// 'far' draws what the far hand holds in profile, 'back' draws everything behind the body.
+function weapon(p,S,handL,handR,sk,view,{cx,tw,tTop,hip,hand}){
+ const side=view==='side',far=view==='far',back=view==='back';
+ const main=side?null:far?hand:back?handL:handR; // main weapon hand
+ const off=side?handL:back?handR:handL;
+ const at=(h,f)=>{if(h)f(h[0],h[1]);};
+ if(side){ // profile: weapon held forward in near hand
+  const [x,y]=handL;
+  if(S.off==='shield'){const sh=ramp(S.shield);p.poly([[x-3,y-11],[x+4,y-11],[x+4,y+2],[x,y+7],[x-3,y+2]],sh[2]);for(let yy=y-11;yy<y+5;yy++){p.set(x-3,yy,sh[3]);p.set(x+3,yy,sh[1]);}p.rect(x,y-9,2,12,ramp('#e1c27a')[2]);p.rect(x-2,y-6,6,2,ramp('#e1c27a')[2]);return;}
+  if(S.weapon==='bow')return;
+  if(S.weapon==='daggers'){p.box(x+2,y-3,6,2,ramp('#d5dde0'));p.rect(x+1,y-4,1,4,ramp('#c26a36')[2]);return;}
+  if(S.weapon==='ledger'||S.weapon==='papers'){p.box(x+1,y-5,5,8,S.weapon==='ledger'?ramp('#6a3a2a'):ramp('#efe6cf'));return;}
+  if(S.weapon==='satchel'||S.weapon==='bundle'||S.weapon==='none')return;
+ }
+ if(far&&!['sword','staff','holy','axe','greataxe','torch','cane','hammer','spear'].includes(S.weapon))return;
+ if(side&&['sword','staff','holy','axe','greataxe','torch','cane','hammer','spear'].includes(S.weapon))return;
+ at(main,(x,y)=>{
+  if(S.weapon==='sword'){const bl=ramp('#d9e2e6');p.box(x-1,y-17,3,16,bl);p.rect(x,y-17,1,15,col('#ffffff'));p.box(x-3,y-2,7,2,ramp('#c9a24a'));}
+  if(S.weapon==='staff'){p.box(x-1,y-20,2,30,ramp('#7a5232'));p.ball(x,y-23,3.6,3.6,ramp(S.orb));p.set(x-1,y-25,col('#ffffff'));p.box(x-2,y-19,4,2,ramp('#c9a24a'));}
+  if(S.weapon==='holy'){p.box(x-1,y-18,2,28,ramp('#d8c48c'));p.ball(x,y-21,3.2,3.2,ramp('#e8b84a'));for(const [a,b]of[[0,-5],[0,4],[-5,0],[4,0]])p.set(x+a,y-21+b,col('#fff3b0'));}
+  if(S.weapon==='axe'){p.box(x-1,y-14,2,18,ramp('#6a4a30'));const bl=ramp('#c5ccc8');p.poly([[x+1,y-14],[x+7,y-16],[x+7,y-6],[x+1,y-8]],bl[2]);p.line(x+7,y-16,x+7,y-6,bl[4]);}
+  if(S.weapon==='greataxe'){p.box(x-1,y-22,3,30,ramp('#5a3a24'));const bl=ramp('#b8c0bc');for(const d of[1,-1]){const bx=x+(d>0?2:-1);p.poly([[bx,y-22],[bx+d*9,y-25],[bx+d*10,y-12],[bx,y-14]],bl[d>0?2:3]);}}
+  if(S.weapon==='torch'){p.box(x-1,y-12,2,14,ramp('#6a4a30'));p.ball(x,y-15,3,4,ramp('#f08a3a'),{bias:.3});p.ball(x,y-16,1.6,2.4,ramp('#ffd27a'),{bias:.4});}
+  if(S.weapon==='cane'){p.box(x,y-4,2,16,ramp('#7a5a3a'));p.box(x-2,y-5,5,2,ramp('#7a5a3a'));}
+  if(S.weapon==='hammer'){p.box(x-1,y-10,2,12,ramp('#6a4a30'));p.box(x-4,y-14,8,5,ramp('#8a9094'));}
+  if(S.weapon==='spear'){p.box(x-1,y-26,2,34,ramp('#7a5a3a'));p.poly([[x-2,y-26],[x+2,y-26],[x,y-33]],ramp('#d0d8dc')[3]);}
+  if(S.weapon==='daggers'){p.box(x-1,y-7,2,7,ramp('#d5dde0'));p.rect(x-2,y-1,4,1,ramp('#c26a36')[2]);}
+  if(!far)p.ball(x,y,2.2,2,sk);
+ });
+ if(far)return;
+ at(off,(x,y)=>{
+  if(S.off==='shield'&&!side){const sh=ramp(S.shield);p.poly([[x-6,y-10],[x+5,y-10],[x+5,y+2],[x,y+8],[x-6,y+2]],sh[back?1:2]);for(let yy=y-10;yy<y+6;yy++){p.set(x-6+(yy>y+2?(yy-y-2):0),yy,sh[3]);p.set(x+4-(yy>y+2?(yy-y-2):0),yy,sh[1]);}if(!back){p.rect(x-6,y-10,12,1,ramp('#d6b25e')[3]);p.rect(x-1,y-8,2,12,ramp('#e1c27a')[2]);p.rect(x-4,y-5,8,2,ramp('#e1c27a')[2]);}else p.rect(x-1,y-6,2,8,ramp('#6a4a30')[2]);}
+  if(S.weapon==='daggers'){p.box(x-1,y-7,2,7,ramp('#d5dde0'));p.rect(x-2,y-1,4,1,ramp('#c26a36')[2]);}
+  if(S.weapon==='ledger'&&!back){p.box(x-3,y-6,7,9,ramp('#6a3a2a'));p.rect(x-2,y-5,5,1,col('#e8dcc0'));}
+  if(S.weapon==='papers'&&!back){p.box(x-3,y-5,6,8,ramp('#efe6cf'));p.rect(x-2,y-3,4,1,col('#8a7a5a'));p.rect(x-2,y-1,4,1,col('#8a7a5a'));}
+ });
+ if(S.weapon==='satchel'){const b=ramp('#8a5a34'),sx=side?cx-7:back?cx+tw-3:cx-tw-3;p.box(sx,hip-4,7,7,b);if(!side)p.line(back?cx+tw-2:cx-tw-1,tTop+1,back?cx-tw+1:cx+tw-2,hip-4,b[1]);}
+ if(S.weapon==='bundle'){const bx=side?cx-8:back?cx-tw-2:cx+tw+2;p.ball(bx,hip-6,5,5,ramp('#b8a07a'));}
+ if(S.weapon==='sheathed'&&!back){const sx=side?cx-2:cx-tw-1;p.line(sx,hip-1,sx-5,hip+8,ramp('#3a2a22')[2]);p.line(sx+1,hip-1,sx-4,hip+8,ramp('#3a2a22')[3]);p.box(sx,hip-3,3,2,ramp('#c9a24a'));}
 }
 
 // ---------- scene composition ----------

diff --git a/samples/b4/index.html b/samples/b4/index.html
@@ -29,7 +29,7 @@ function scene(map,units,{buildings=[],selected=null,mov=0,attack=[],time=0,scal
   if(o.kind==='crag'){drawShadow(c,o.x+24,o.y-3,20,5);c.drawImage(cragSprite(o.seed%3),o.x,o.y-56);}
   if(o.kind==='house'){const s=houseSprite(o.seed%6,o.w||1,o.h||1,o.state||'intact');c.fillStyle='rgba(20,24,30,.28)';c.fillRect(o.x+6,o.y-4,s.width-4,6);c.drawImage(s,o.x,o.y-s.height+2);
    if(o.state==='burning'){for(let i=0;i<(o.w||1)*2;i++)drawFlame(c,o.x+12+i*20,o.y-s.height+16+(i%2)*8,time+i*90,1.2);for(let i=0;i<7;i++){const r=Math.round(4+i*1.4),px=Math.round(o.x+s.width/2-4+i*3+Math.sin(i*1.3+time/500)*3),py=Math.round(o.y-s.height-2-i*8);c.fillStyle=`rgba(70,66,72,${.30-i*.035})`;c.fillRect(px-r,py-r+2,r*2,r*2-4);c.fillRect(px-r+2,py-r,r*2-4,r*2);}}}
-  if(o.kind==='unit'){const u=o.u,s=figureSprite(u.sprite);
+  if(o.kind==='unit'){const u=o.u,s=figureSprite(u.sprite,{facing:u.facing||'down',frame:u.frame||0});
    c.fillStyle=u.team==='ally'?'rgba(80,160,255,.55)':u.team==='enemy'?'rgba(230,70,60,.55)':'rgba(240,210,110,.6)';c.beginPath();c.ellipse(o.x,o.y,13,4.2,0,0,7);c.fill();
    drawShadow(c,o.x,o.y,10,3);c.globalAlpha=u.acted?.62:1;c.drawImage(s,o.x-20,o.y-50);c.globalAlpha=1;
    if(u.hp!=null){const w=26,f=Math.max(0,u.hp/u.max);c.fillStyle='#14181c';c.fillRect(o.x-w/2-1,o.y+1,w+2,4);c.fillStyle=u.team==='ally'?'#5fd38a':u.team==='enemy'?'#e8594a':'#f0cf6a';c.fillRect(o.x-w/2,o.y+2,Math.round(w*f),2);}}
@@ -40,9 +40,9 @@ function scene(map,units,{buildings=[],selected=null,mov=0,attack=[],time=0,scal
 const U=(id,sprite,team,x,y,hp,max,extra={})=>({id,sprite,team,x,y,hp,max,...extra});
 if(view==='scene'){
  const m=MISSIONS[1];
- const units=[U('eric','eric','ally',6,8,42,42),U('elina','elina','ally',4,8,30,30),U('lia','lia','ally',8,8,27,27),U('sain','sain','ally',5,9,31,31),U('kai','kai','ally',9,7,33,33,{acted:true}),
-  U('b1','bandit','enemy',3,5,24,24),U('b2','bandit','enemy',8,5,18,26),U('a1','archer','enemy',6,4,22,22),U('b3','bandit','enemy',1,2,25,25),U('boss','captain','enemy',6,1,62,62),
-  U('c1','mira','civilian',2,4,20,28),U('c2','farmer','civilian',10,3,28,28)];
+ const units=[U('eric','eric','ally',6,8,42,42,{facing:'up'}),U('elina','elina','ally',4,8,30,30,{facing:'up'}),U('lia','lia','ally',8,8,27,27,{facing:'left'}),U('sain','sain','ally',5,9,31,31,{facing:'right'}),U('kai','kai','ally',9,7,33,33,{acted:true,facing:'up'}),
+  U('b1','bandit','enemy',3,5,24,24,{facing:'down'}),U('b2','bandit','enemy',8,5,18,26,{facing:'right'}),U('a1','archer','enemy',6,4,22,22,{facing:'down'}),U('b3','bandit','enemy',1,2,25,25,{facing:'right'}),U('boss','captain','enemy',6,1,62,62,{facing:'down'}),
+  U('c1','mira','civilian',2,4,20,28,{facing:'left'}),U('c2','farmer','civilian',10,3,28,28,{facing:'down'})];
  scene(m.map,units,{buildings:m.layers.buildings,selected:'eric',mov:2,cursor:[6,8],time:400});
 }
 if(view==='terrain'){
@@ -53,6 +53,21 @@ if(view==='cast'){
  const groups=[['아군',['eric','elina','lia','sain','kai','aren']],['적군',['bandit','archer','captain','torch','quartermaster']],['주민',['elder','smith','merchant','refugee','child','farmer','mira','guard','aide']]];
  const S=4,cell=46*S,rowH=52*S+64;out.width=cell*9+40;out.height=groups.length*rowH+30;const c=out.getContext('2d');c.imageSmoothingEnabled=false;c.fillStyle='#16252a';c.fillRect(0,0,out.width,out.height);
  groups.forEach(([label,ids],g)=>{const y0=20+g*rowH;c.fillStyle='#d9b96a';c.font='bold 26px sans-serif';c.fillText(label,24,y0+28);ids.forEach((id,i)=>{const x=24+i*cell,y=y0+40;c.fillStyle='#1d3036';c.fillRect(x,y,cell-10,52*S+4);c.fillStyle='rgba(20,24,30,.35)';c.beginPath();c.ellipse(x+(cell-10)/2,y+50*S,11*S,3*S,0,0,7);c.fill();c.drawImage(figureSprite(id),x+(cell-10)/2-20*S,y,40*S,52*S);c.fillStyle='#efe6cf';c.font='20px sans-serif';c.textAlign='center';c.fillText(CAST[id].name,x+(cell-10)/2,y+52*S+24);c.textAlign='left';});});
+}
+if(view==='facing'){
+ const ids=['eric','elina','lia','sain','kai','aren','bandit','archer','captain','elder','merchant','mira'],dirs=['down','right','up','left'],S=3,cw=40*S+8,ch=52*S+40,gw=cw*4+28,cols=3,rows=Math.ceil(ids.length/cols);
+ out.width=gw*cols+16;out.height=rows*(ch+34)+60;const c=out.getContext('2d');c.imageSmoothingEnabled=false;c.fillStyle='#16252a';c.fillRect(0,0,out.width,out.height);
+ c.font='bold 22px sans-serif';c.fillStyle='#d9b96a';c.fillText('이동 방향별 모습 (아래 · 오른쪽 · 위 · 왼쪽)',20,34);
+ ids.forEach((id,i)=>{const gx=16+(i%cols)*gw,gy=56+Math.floor(i/cols)*(ch+34);c.fillStyle='#efe6cf';c.font='18px sans-serif';c.fillText(CAST[id].name,gx+6,gy+18);
+  dirs.forEach((f,k)=>{const x=gx+k*cw,y=gy+26;c.fillStyle='#1d3036';c.fillRect(x,y,cw-6,52*S+6);c.fillStyle='rgba(20,24,30,.35)';c.beginPath();c.ellipse(x+(cw-6)/2,y+50*S,11*S,3*S,0,0,7);c.fill();c.drawImage(figureSprite(id,{facing:f}),x+(cw-6)/2-20*S,y,40*S,52*S);});});
+}
+if(view==='walk'){
+ const m=MISSIONS[1],path=[[4,8],[5,8],[6,8],[7,8],[7,7],[7,6],[6,6],[5,6],[4,6],[4,7],[4,8]];
+ window.frames=[];const N=(path.length-1)*8;
+ for(let f=0;f<N;f++){const seg=Math.floor(f/8),t=(f%8)/8,[ax,ay]=path[seg],[bx,by]=path[seg+1],facing=bx>ax?'right':bx<ax?'left':by<ay?'up':'down';
+  const u=U('eric','eric','ally',ax+(bx-ax)*t,ay+(by-ay)*t,42,42,{facing,frame:1+Math.floor(f/2)%4});
+  scene(m.map,[u,U('lia','lia','ally',9,7,27,27,{facing:'left'}),U('b1','bandit','enemy',3,5,24,24,{facing:'down'})],{scale:2,time:f*80});
+  const crop=document.createElement('canvas');crop.width=6*T*2;crop.height=5*T*2;crop.getContext('2d').drawImage(out,2*T*2,4*T*2,crop.width,crop.height,0,0,crop.width,crop.height);window.frames.push(crop.toDataURL('image/png'));}
 }
 window.ready=true;
 </script></body></html>

diff --git a/docs/v0.4.0/BENCHMARK_PASS.md b/docs/v0.4.0/BENCHMARK_PASS.md
@@ -72,3 +72,7 @@ Lia stands at the war table beside her staff aide (the aide keeps the `advisor` 
 - 20 hand-built figures (six heroes and the commander, five enemy types, nine civilians/staff) with distinct silhouettes, headgear and props; chibi proportions with eyes that stay visible under hair, hoods and helmets.
 Sample images: docs/v0.4.0/b4/ (`b4-compare` current vs sample on the same M01 scene at the same scale, `b4-scene`, `b4-zoom`, `b4-cast`, `b4-terrain`). Harness: `samples/b4/index.html` (`#scene`, `#cast`, `#terrain`), rendered by `node samples/b4/shots.mjs <outdir> scene cast terrain`.
 Rollout after approval: replace battle tiles/sprites, town tiles/NPCs and portraits-on-map with this renderer, add walk/attack frames and facing, keep the 64-unit logical coordinate system and all hit-testing unchanged.
+
+### B4 revision 1 (user feedback 2026-10-17 07:27)
+- Head reduced (15×14 px instead of 17×16) so bodies read taller.
+- Four facings: down (front), right (profile), up (back view), left (mirrored profile), plus a four-step walk cycle; units turn to the direction they travel. Back views show hair, capes, quivers and shields; profiles show one eye, nose and the near arm. Images: `b4-facing.png`, `b4-walk.gif`; harness views `#facing`, `#walk`.
